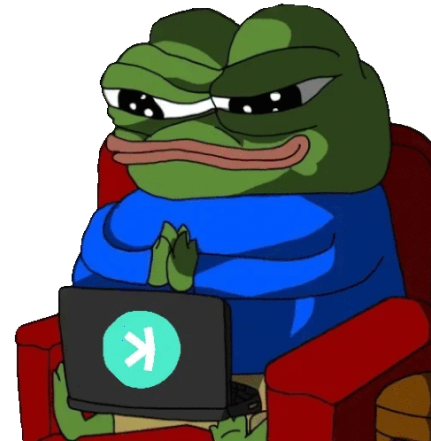
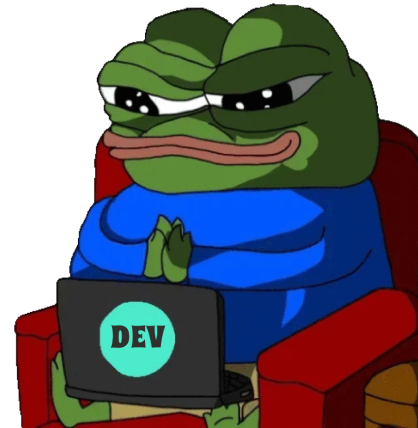
up

Changed region(s): [[0.2488, 0.729, 0.4043, 0.8505], [0.9019, 0.243, 0.933, 0.2734], [0.3421, 0.0607, 0.3732, 0.0911]]

diff --git a/src/Components/Hero.jsx b/src/Components/Hero.jsx
@@ -1,5 +1,6 @@
 import React from "react";
 import HeroLogo from "../assets/heroLogo.png";
+import HeroLogo2 from "../assets/heroLogo2.png";
 
 const Hero = () => {
   return (
@@ -15,13 +16,22 @@ const Hero = () => {
           </span>
           <br /> who make the Pepe Great
         </h1>
-        <img
-          src={HeroLogo}
-          alt=""
-          className="md:w-[25rem]"
-          data-aos="flip-left"
-          data-aos-duration="900"
-        />
+        <div className="grid grid-cols-1 md:grid-cols-2 justify-between items-center gap-12">
+          <img
+            src={HeroLogo}
+            alt=""
+            className="md:w-[25rem]"
+            data-aos="flip-left"
+            data-aos-duration="900"
+          />
+          <img
+            src={HeroLogo2}
+            alt=""
+            className="md:w-[25rem]"
+            data-aos="flip-left"
+            data-aos-duration="900"
+          />
+        </div>
       </div>
     </section>
   );
